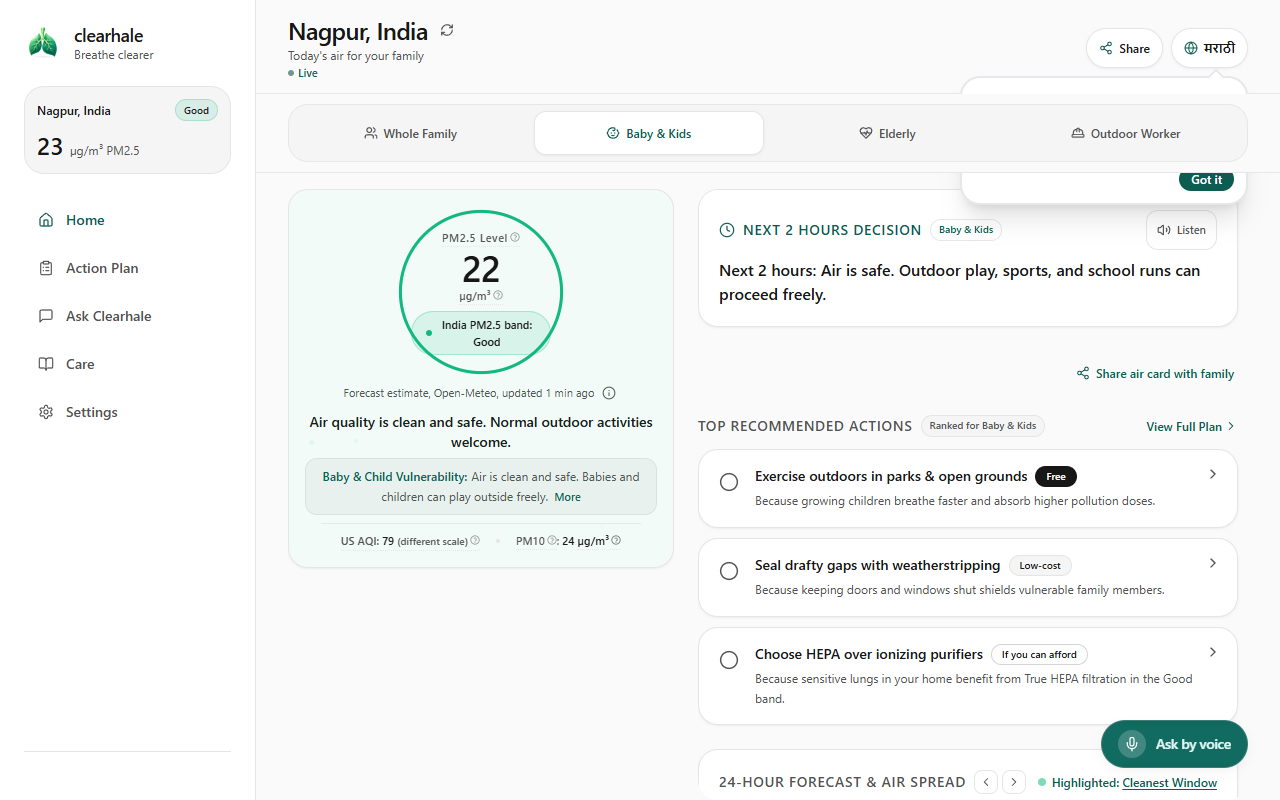
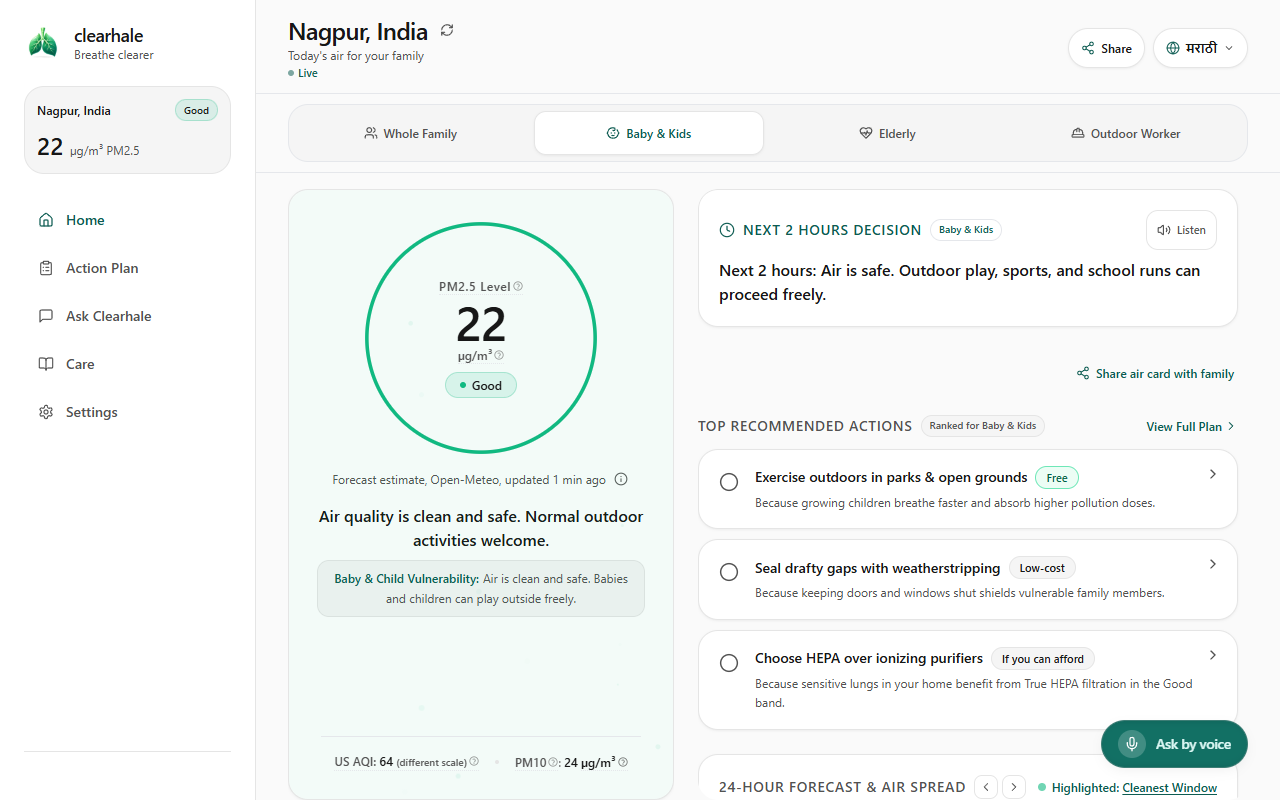
fix(ui): elevate header stacking context above tabs and refresh desktop screenshot

diff --git a/components/screens/HomeScreen.tsx b/components/screens/HomeScreen.tsx
@@ -794,7 +794,7 @@ export function HomeScreen() {
   return (
     <div className="w-full space-y-6 pb-24 md:pb-12 max-w-5xl mx-auto lg:space-y-0 lg:pb-0 lg:max-w-none lg:h-screen lg:h-[100dvh] lg:max-h-[100dvh] lg:grid lg:grid-rows-[auto_auto_minmax(0,1fr)] lg:overflow-hidden">
       {/* Row 1: Top Bar (fixed on desktop, never scrolls, with page background & hairline bottom border) */}
-      <header className="w-full bg-background lg:border-b lg:border-card-border/60 z-20 pt-1 lg:pt-3.5 lg:pb-3 px-0 lg:px-8 shrink-0">
+      <header className="w-full bg-background lg:border-b lg:border-card-border/60 relative z-30 pt-1 lg:pt-3.5 lg:pb-3 px-0 lg:px-8 shrink-0">
         <div className="w-full max-w-5xl mx-auto flex items-center justify-between">
         <div className="flex items-center gap-3 min-w-0">
           {/* Mobile Screen Logo (at left top corner, location to right) */}
@@ -862,7 +862,7 @@ export function HomeScreen() {
           </button>
 
           {/* Suggested Regional Language Toggle & Long-Press Switcher */}
-          <div className="relative" ref={langHintRef}>
+          <div className="relative z-40" ref={langHintRef}>
             <button
               onTouchStart={handleTouchStart}
               onTouchMove={handleTouchMove}
@@ -971,7 +971,7 @@ export function HomeScreen() {
       </header>
 
       {/* Row 2: Family Tabs (fixed on desktop, never scrolls, with page background & hairline bottom border) */}
-      <div className="w-full bg-background lg:border-b lg:border-card-border/60 z-20 py-0 lg:py-2.5 px-0 lg:px-8 shrink-0">
+      <div className="w-full bg-background lg:border-b lg:border-card-border/60 relative z-10 py-0 lg:py-2.5 px-0 lg:px-8 shrink-0">
         <div className="w-full max-w-5xl mx-auto space-y-2">
           {/* Family View Segmented Switcher (Mobile: Compact 4-column control, Desktop: Full pills) */}
           <div
